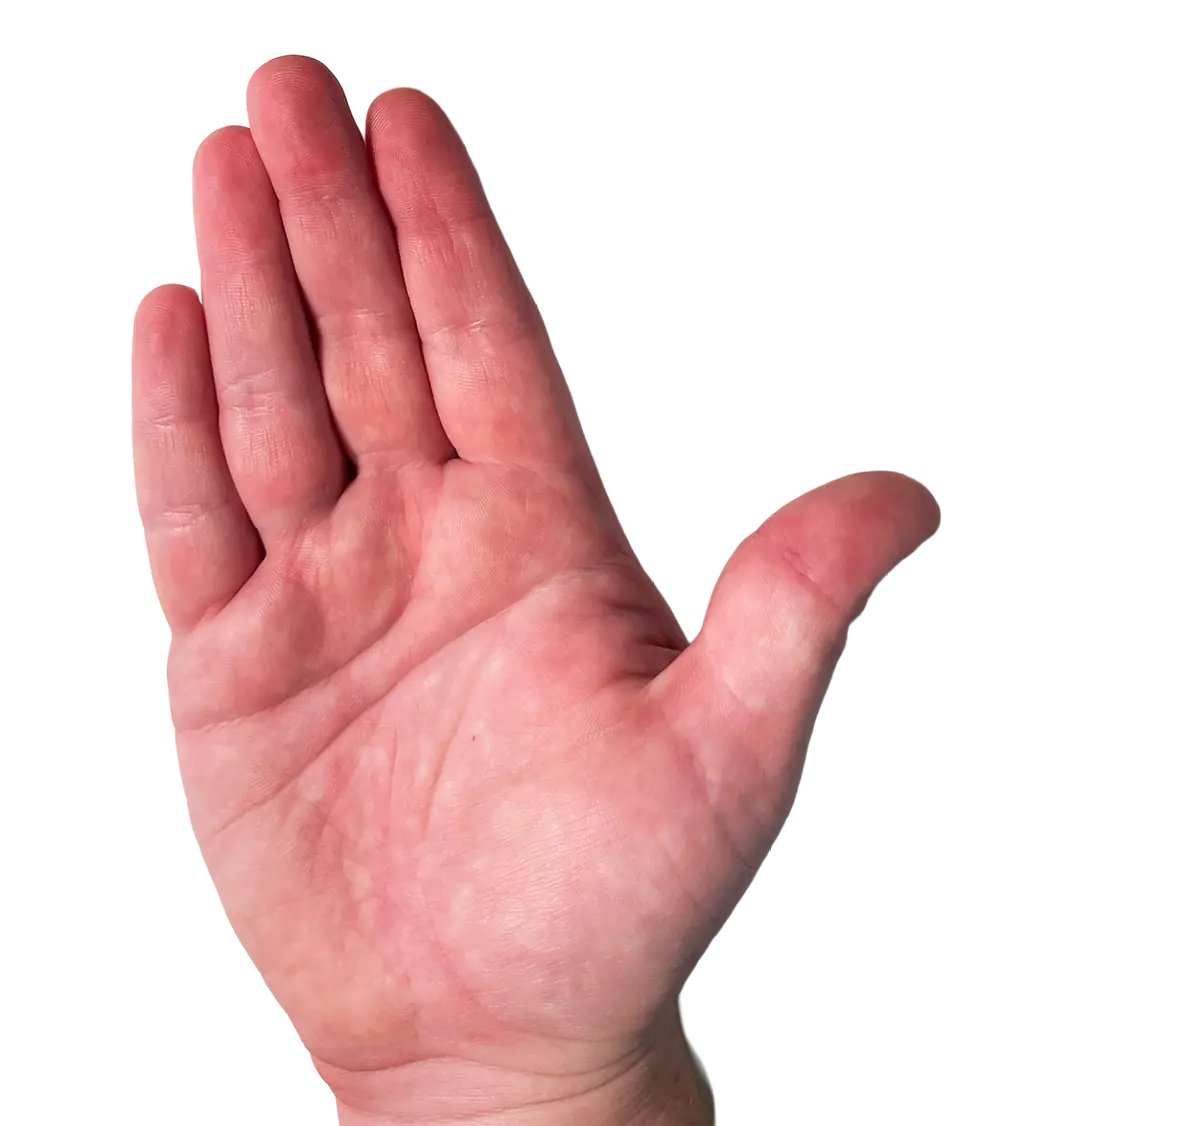
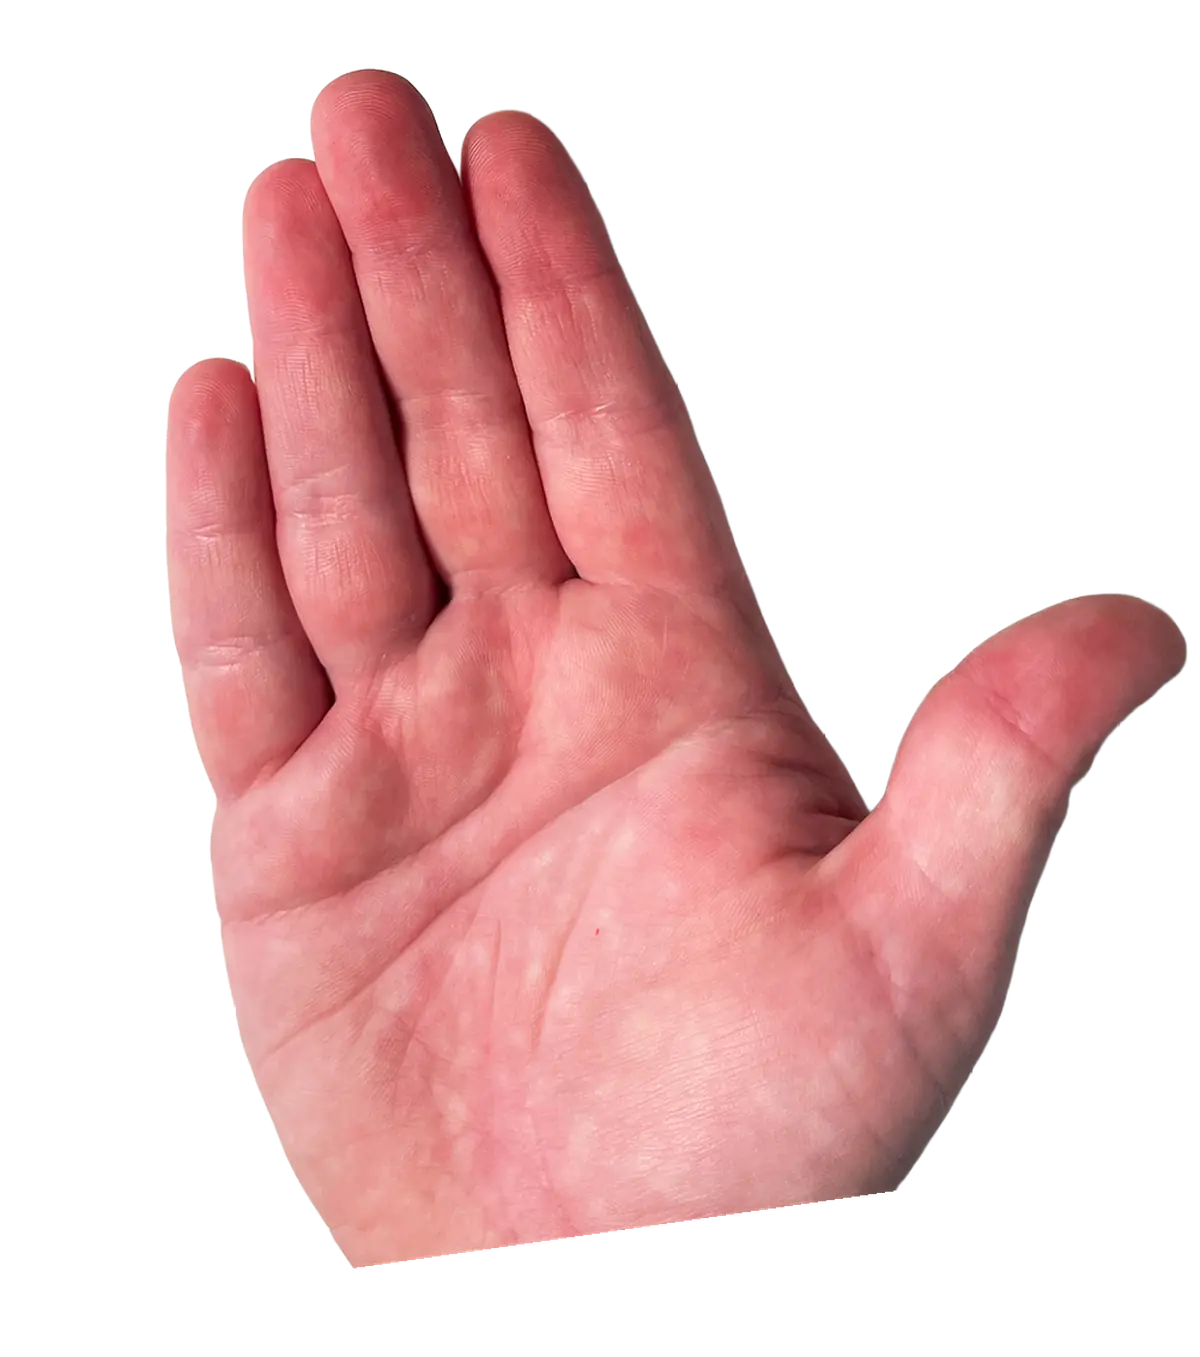
Password hand: onto the palm, a real caret, ten dots, and a cut wrist
Five notes on one screen.

ON THE PALM. "The text and the typing box should still be more on the
palm. Move the text and box to the left and shrink it down a bit." Judged
by measurement, not by eye: the palm was isolated out of frame 1's alpha as
the LEFTMOST contiguous run of opaque pixels per row, which excludes the
thumb — a separate run further right on exactly the rows where it juts out,
and text drifting onto it is part of what reads as off-the-palm. At the old
numbers "woah, pal!" was 87% covered and the box 98%. Searching scale
against offset says 0.85 is safe anywhere from 20 to 40 units left, so it
sits at 30, the middle of the band rather than its edge. All four elements
now measure 100%.

A CARET THAT IS A CARET. "I would like this line to actually function as
the text cursor. It should start on the left and go to the right when the
user is typing." Only its length and its slight hand-drawn lean survive
from the demo; its position is now one dot-stride per character.

TEN DOTS, EXACTLY. "the password dots should be sized to allow a maximum of
10 dots in the box." They used to be whatever bullet the font puts in a
password input, spaced by a letter-spacing guess — which cannot be made to
satisfy "exactly ten fit" for any given box, because the bullet's advance
belongs to the typeface. So they are drawn: the input still owns the value,
the focus and the keystrokes, but it is transparent, and the dots are
[…]

diff --git a/src/components/PasswordHand.tsx b/src/components/PasswordHand.tsx
@@ -51,11 +51,21 @@ import { HAND_BOX, HAND_FRAMES, HAND_PIXELS } from "@/lib/passwordHand";
  */
 type Phase = "enter" | "ask" | "go";
 
-/** Fly-in, relative to where the hand lands: the demo goes
- *  translate(90.83 45.61) rotate(-12.57) scale(0) -> translate(43.01 9.54)
- *  rotate(0) scale(.07), i.e. it starts small, tilted, down and to the right. */
-const ENTER_FROM = { x: 478.2, y: 360.7, rotate: -12.57, scale: 0 };
-const ENTER_SECONDS = 0.62;
+/** Fly-in. The demo goes translate(90.83 45.61) rotate(-12.57) scale(0) ->
+ *  translate(43.01 9.54) rotate(0) scale(.07) — small, tilted, down and to
+ *  the right of where it lands.
+ *
+ *  THE TRANSLATION IS GONE, 2026-08-25. Noah: "let's also make sure the hand
+ *  comes from the center of the page and rotates from its starting point."
+ *  Setting the transform origin to the page's centre was necessary and not
+ *  sufficient: with a 478x361 unit offset still on the tween, the hand grew
+ *  from a point that far off centre and slid into place, which is the sliding
+ *  he could still see. At x/y 0 it scales up from the origin itself, so the
+ *  origin IS the starting point and the rotation happens about it. */
+const ENTER_FROM = { x: 0, y: 0, rotate: -12.57, scale: 0 };
+// 0.62 -> 0.85: "The animation of the hand coming up from the back can be
+// just a tad longer in time as well."
+const ENTER_SECONDS = 0.85;
 
 /** 2026-08-24, Noah: "When the hand is showing up, I want it to spin/grow
  *  more from the center of the page." Was the uncropped artwork's own
@@ -65,32 +75,92 @@ const ENTER_SECONDS = 0.62;
  *  full 1920x1080 artboard, so (960,540) is the page's true centre. */
 const PAGE_CENTER = { x: 960, y: 540 };
 
-/** Noah's copy, positioned by its baselines. `dy` is measured down from the
- *  first line's baseline, `dx` across from where it starts. */
-const COPY_ANCHOR = { x: 775.3, y: 574.5, rot: -3.77, size: 68.3 };
+/**
+ * Noah's copy, positioned by its baselines. `dy` is measured down from the
+ * first line's baseline, `dx` across from where it starts.
+ *
+ * SHRUNK 15% AND MOVED 30 UNITS LEFT, 2026-08-25. Noah: "The text and the
+ * typing box should still be more on the palm. Move the text and box to the
+ * left and shrink it down a bit to better fit on the palm."
+ *
+ * Not judged by eye. The palm was isolated out of frame 1's alpha — the
+ * LEFTMOST contiguous run of opaque pixels on each row, which excludes the
+ * thumb, since the thumb is a separate run further right on exactly the rows
+ * where it juts out and text drifting onto it is part of what reads as
+ * off-the-palm. Every line and the box were then measured against that mask.
+ * At the old numbers "woah, pal!" was 87% covered and the box 98%; the
+ * search says 0.85 scale is safe anywhere from 20 to 40 units left, so it
+ * sits at 30 — the middle of the band rather than its edge.
+ *
+ * `dx`/`dy` scale with the type (COPY_SCALE), because they are the line
+ * spacing Noah drew at the original size.
+ */
+const COPY_SCALE = 0.85;
+const COPY_SHIFT_X = -30;
+const COPY_ANCHOR = {
+  x: 775.3 + COPY_SHIFT_X,
+  y: 584.5,
+  rot: -3.77,
+  size: 68.3 * COPY_SCALE,
+};
 const COPY_LINES = [
   { dx: 0, dy: 0, text: "woah, pal!" },
-  { dx: 11.2, dy: 83.6, text: "what’s the" },
-  { dx: -1.5, dy: 146.2, text: "password?" },
+  { dx: 11.2 * COPY_SCALE, dy: 83.6 * COPY_SCALE, text: "what’s the" },
+  { dx: -1.5 * COPY_SCALE, dy: 146.2 * COPY_SCALE, text: "password?" },
 ];
 /** Akzidenz sits its baseline about this far below the top of a line box at
  *  line-height 1; the demo positions type by baseline, CSS by box top. */
 const BASELINE_RATIO = 0.75;
 const COPY_FADE = 0.25;
 
-/** The entry box, from the demo's <rect>: centre, size and tilt, in units. */
-const FIELD = { cx: 948.4, cy: 773.6, w: 327.3, h: 61.3, rot: -3.97, stroke: 3 };
+/** The entry box, from the demo's <rect>: centre, size and tilt, in units,
+ *  shrunk and moved with the copy above. */
+const FIELD = {
+  cx: 948.4 + COPY_SHIFT_X,
+  cy: 779.6,
+  w: 327.3 * COPY_SCALE,
+  h: 61.3 * COPY_SCALE,
+  rot: -3.97,
+  stroke: 3 * COPY_SCALE,
+};
 
 /**
- * The demo's `<line x1="79.48" y1="76.03" x2="79.81" y2="80.81"/>` — a short
- * hand-drawn cursor mark inside the box, near its left edge. 2026-08-24,
- * Noah: "The text formatting should be the same as well as the thickness of
- * the box used and the location of the typing line" — this was missing
- * entirely; only the box existed. Unlike FIELD, the demo gives this no
- * transform of its own, so it is drawn at these raw coordinates (already
- * ×10 into artboard units) with no rotation applied.
+ * How the typed password is drawn (2026-08-25).
+ *
+ * Noah: "the password dots should be sized to fill up the type box when the
+ * correct password is entered. Since 'TopSecret!' would be 10 characters, the
+ * password dots should be sized to allow a maximum of 10 dots in the box."
+ *
+ * DRAWN, NOT TYPED. The dots used to be whatever bullet the font puts in a
+ * `type="password"` input, spaced by a letter-spacing guess — which cannot be
+ * made to satisfy "exactly ten fit" for any particular box width, because the
+ * bullet's own advance is a property of the typeface and changes with it. So
+ * the input is still the real control and still holds the real value, but it
+ * is transparent, and the dots are circles positioned at a stride of exactly
+ * one tenth of the box's inner width. Ten fit because ten is what the
+ * arithmetic divides by.
  */
-const TYPING_LINE = { x1: 794.8, y1: 760.3, x2: 798.1, y2: 808.1 };
+const MAX_DOTS = 10;
+/** Inset from the box's inner edge, so the first and last dot don't touch it. */
+const FIELD_PAD = 9 * COPY_SCALE;
+
+/**
+ * The caret, from the demo's `<line x1="79.48" y1="76.03" x2="79.81"
+ * y2="80.81"/>` — a short hand-drawn mark inside the box near its left edge,
+ * which 2026-08-24 added as static artwork.
+ *
+ * IT NOW MOVES, 2026-08-25. Noah: "I noticed there was a line added to the
+ * inside of the type box. This is good, but I would like this line to
+ * actually function as the text cursor. It should start on the left and go
+ * to the right when the user is typing."
+ *
+ * Only its length and its slight lean survive from the demo — 3.3 units of
+ * drift over 47.8 of height, which is what makes it read as drawn by hand
+ * rather than as a rule. Its position is now one dot-stride per character.
+ * Expressed as fractions of the box so it keeps that proportion when the box
+ * is resized, which it just was.
+ */
+const CARET = { hFrac: 0.78, leanFrac: 0.069, w: 3 * COPY_SCALE };
 
 // 0.25 -> 0.5, 2026-08-24: "Let's double the amount of time until we get to
 // the thumbs up."
@@ -219,6 +289,10 @@ export default function PasswordHand({
 
   /* ---- checking as they type ------------------------------------------ */
 
+  /** One tenth of the box's inner width, so exactly MAX_DOTS fit. */
+  const dotStride = (FIELD.w - FIELD_PAD * 2) / MAX_DOTS;
+  const caretX = FIELD_PAD + dotStride * Math.min(value.length, MAX_DOTS);
+
   const refused = useRef(new Set<string>());
   /* Checks are QUEUED BEHIND EACH OTHER rather than skipped while one is in
    * flight, and the difference is a password that silently does nothing. Type
@@ -346,6 +420,12 @@ export default function PasswordHand({
             ))}
           </div>
 
+          {/* THE WHOLE FIELD IN ONE ROTATED FRAME. The outline used to be
+              drawn in a page-space SVG with its own matching rotate, which
+              worked while it was the only thing in the box; now that the
+              dots and the caret have to line up inside it to a fraction of a
+              unit, one rotation shared by all three is the only way they
+              cannot drift apart. */}
           <div
             className="absolute"
             style={{
@@ -356,6 +436,52 @@ export default function PasswordHand({
               transform: `rotate(${FIELD.rot}deg)`,
             }}
           >
+            <svg
+              className="absolute inset-0 w-full h-full pointer-events-none"
+              viewBox={`0 0 ${FIELD.w} ${FIELD.h}`}
+              aria-hidden="true"
+            >
+              {/* Inset by half the stroke so the outline sits inside the box
+                  rather than straddling its edge. An SVG stroke rather than a
+                  CSS border: a border-width snaps to whole device pixels,
+                  which thickens or thins it depending on which way the
+                  rounding falls, while this scales with the viewBox exactly
+                  as the demo's own vector does. */}
+              <rect
+                x={FIELD.stroke / 2}
+                y={FIELD.stroke / 2}
+                width={FIELD.w - FIELD.stroke}
+                height={FIELD.h - FIELD.stroke}
+                fill="none"
+                stroke={HAND_INK}
+                strokeWidth={FIELD.stroke}
+              />
+              {Array.from({ length: Math.min(value.length, MAX_DOTS) }, (_, i) => (
+                <circle
+                  key={i}
+                  cx={FIELD_PAD + dotStride * (i + 0.5)}
+                  cy={FIELD.h / 2}
+                  r={dotStride * 0.26}
+                  fill={HAND_INK}
+                />
+              ))}
+              {/* Sits AFTER the last dot, and stops advancing once the box is
+                  full — there is nowhere further right for it to go. */}
+              <line
+                x1={caretX}
+                y1={(FIELD.h * (1 - CARET.hFrac)) / 2}
+                x2={caretX + FIELD.h * CARET.leanFrac}
+                y2={FIELD.h - (FIELD.h * (1 - CARET.hFrac)) / 2}
+                stroke={HAND_INK}
+                strokeWidth={CARET.w}
+              />
+            </svg>
+
+            {/* The real control, and invisible. It still owns the value, the
+                focus and the keystrokes; everything above is a drawing of
+                what it contains. `color` and `caretColor` transparent rather
+                than `opacity: 0` on the element, so it stays hit-testable and
+                focusable in every browser without any doubt about it. */}
             <input
               ref={inputRef}
               type="password"
@@ -370,52 +496,15 @@ export default function PasswordHand({
               autoComplete="off"
               spellCheck={false}
               aria-label="Password"
-              className="w-full h-full bg-transparent outline-none text-center"
+              className="absolute inset-0 w-full h-full bg-transparent outline-none"
               style={{
-                color: HAND_INK,
+                color: "transparent",
+                caretColor: "transparent",
                 fontSize: uFont(FIELD.h * 0.62),
-                letterSpacing: "calc(var(--u) * 6)",
               }}
             />
           </div>
 
-          {/* The box and its typing-line mark, drawn as real SVG rather than
-              a CSS border — a CSS border-width snaps to whole device pixels,
-              which either thickens or thins it depending on rounding
-              direction; an SVG stroke scales continuously with the viewBox,
-              matching the demo's own vector rendering exactly. rotate(deg,
-              cx, cy) rotates the rect about its own centre directly, which
-              is what the demo's translate+rotate achieves by a roundabout
-              route (translate(-51.3,67.5) is a hand-placed approximation of
-              "rotate about this centre" — the two are the same rotation to
-              within a hundredth of a unit). The viewBox is the full
-              1920x1080 Stage, so these are the same raw units as everywhere
-              else here — no separate calc(var(--u) * …) needed. */}
-          <svg
-            className="absolute inset-0 w-full h-full pointer-events-none"
-            viewBox="0 0 1920 1080"
-            aria-hidden="true"
-          >
-            <rect
-              x={FIELD.cx - FIELD.w / 2}
-              y={FIELD.cy - FIELD.h / 2}
-              width={FIELD.w}
-              height={FIELD.h}
-              rx={0}
-              fill="none"
-              stroke={HAND_INK}
-              strokeWidth={FIELD.stroke}
-              transform={`rotate(${FIELD.rot} ${FIELD.cx} ${FIELD.cy})`}
-            />
-            <line
-              x1={TYPING_LINE.x1}
-              y1={TYPING_LINE.y1}
-              x2={TYPING_LINE.x2}
-              y2={TYPING_LINE.y2}
-              stroke={HAND_INK}
-              strokeWidth={FIELD.stroke}
-            />
-          </svg>
         </div>
       </Stage>
 

diff --git a/src/lib/passwordHand.ts b/src/lib/passwordHand.ts
@@ -10,7 +10,7 @@
  * the position Noah's demo file puts the artwork.
  */
 
-export const HAND_BOX = {"x": 595.3, "y": 105.2, "w": 884.8, "h": 830.2};
+export const HAND_BOX = {"x": 595.3, "y": 105.2, "w": 701.4, "h": 793.1};
 
 /**
  * Where the UNCROPPED 1500x1200 artwork's top-left sits, same units. The
@@ -40,4 +40,4 @@ export const HAND_FRAMES: string[] = [
 ];
 
 /** Natural pixel size of every frame, for next/image. */
-export const HAND_PIXELS = { width: 1200, height: 1126 };
+export const HAND_PIXELS = { width: 1200, height: 1357 };

diff --git a/tools/password-hand/build_hand.py b/tools/password-hand/build_hand.py
@@ -134,7 +134,63 @@ def corrections(frames):
     p = np.array(path)
     t = np.arange(N, dtype=float)
     fit = np.stack([np.polyval(np.polyfit(t, p[:, k], 2), t) for k in (0, 1)], 1)
-    return np.rint(fit - p).astype(int)
+    # The fitted path is returned too: it is where each frame's content ends
+    # up once corrected, which is what the wrist cut has to follow. See
+    # `wrist_cut`.
+    return np.rint(fit - p).astype(int), fit
+
+
+# --- the wrist -------------------------------------------------------------
+#
+# 2026-08-24, Noah: "notice how I cropped off my wrist in the sketch/demo.
+# Make sure that you crop off the wrist at a consistent point so the wrist/arm
+# doesn't grow at all during the animation."
+#
+# Measuring frame by frame says he is right and says why. The arm's width
+# where it meets the bottom of the canvas runs 369, 379, 397, 426, 479, 516
+# pixels across the first six poses — it does not grow because he moved, it
+# grows because a rotating arm crossing a FIXED horizontal crop line presents
+# more of itself to that line as it swings, the same way a pencil laid across
+# a ruler covers more of it as you turn the pencil.
+#
+# So the cut cannot be fixed on the canvas; it has to be fixed on the ARM. It
+# is defined once in frame 1's coordinates — a straight line across the wrist,
+# perpendicular to the forearm — and then carried through each frame by the
+# same rotation and translation the registration already establishes for that
+# frame. That is what "a consistent point" means when the thing being cut is
+# turning: consistent relative to the wrist, not to the frame.
+#
+# CUT_FROM_TIP is how far down the arm the cut sits, as a fraction of the
+# hand's own height in frame 1, measured from the fingertips. 0.86 leaves the
+# heel of the palm and a short stub of wrist and takes the rest.
+CUT_FROM_TIP = 0.86
+CUT_ANGLE_DEG = 0.0   # the cut is square across the arm in frame 1
+
+
+def wrist_cut(shape, angle_deg, offset, tip_y, hand_h, centre):
+    """Boolean mask of everything to KEEP for one frame.
+
+    `angle_deg` is that frame's pose angle and `offset` the translation the
+    registration puts it at, so the line follows the arm rather than the
+    canvas. The rotation is about the image centre because that is the axis
+    ndi.rotate used when the offsets were measured — a cut rotated about any
+    other point would be a different line by the time it reached the edge.
+    """
+    h, w = shape
+    yy, xx = np.mgrid[0:h, 0:w].astype(float)
+    # Into the frame-1 reference: undo this frame's translation, then its
+    # rotation about the centre.
+    xx -= offset[0]
+    yy -= offset[1]
+    cx, cy = centre
+    th = np.deg2rad(angle_deg)
+    ct, st = np.cos(th), np.sin(th)
+    rx = ct * (xx - cx) + st * (yy - cy) + cx
+    ry = -st * (xx - cx) + ct * (yy - cy) + cy
+    cut_y = tip_y + CUT_FROM_TIP * hand_h
+    a = np.deg2rad(CUT_ANGLE_DEG)
+    # Keep everything above the line (in frame-1 space).
+    return (ry - cut_y) * np.cos(a) - (rx - cx) * np.sin(a) < 0
 
 
 def main():
@@ -145,7 +201,7 @@ def main():
 
     print(f"  loading {N} PSDs")
     frames = load_frames()
-    corr = corrections(frames)
+    corr, trend = corrections(frames)
     print("  correction to trend (px):")
     for i, (dx, dy) in enumerate(corr):
         flag = "  <-- outlier" if max(abs(dx), abs(dy)) > 20 else ""
@@ -161,6 +217,23 @@ def main():
         if dx > 0: a[:, :dx] = 0
         elif dx < 0: a[:, dx:] = 0
         shifted.append(a)
+
+    # Frame 1's hand, which the cut is defined against.
+    m0 = shifted[0][..., 3] > ALPHA_MIN
+    ys0, _ = np.where(m0)
+    tip_y, hand_h = float(ys0.min()), float(ys0.max() - ys0.min())
+    centre = (shifted[0].shape[1] / 2.0, shifted[0].shape[0] / 2.0)
+    print(f"  wrist cut at {CUT_FROM_TIP:.2f} of the hand's height below the "
+          f"fingertips (y={tip_y + CUT_FROM_TIP * hand_h:.0f} in frame 1)")
+
+    before = [int((a[..., 3] > ALPHA_MIN).sum()) for a in shifted]
+    for i, a in enumerate(shifted):
+        keep = wrist_cut(a.shape[:2], POSE_ANGLE[i], trend[i] - trend[0],
+                         tip_y, hand_h, centre)
+        a[~keep] = 0
+    after = [int((a[..., 3] > ALPHA_MIN).sum()) for a in shifted]
+    print("  arm removed per frame (px): " +
+          " ".join(str(b - c) for b, c in zip(before, after)))
 
     # One crop box for all fifteen, so the component places them identically.
     union = np.zeros(shifted[0].shape[:2], bool)
